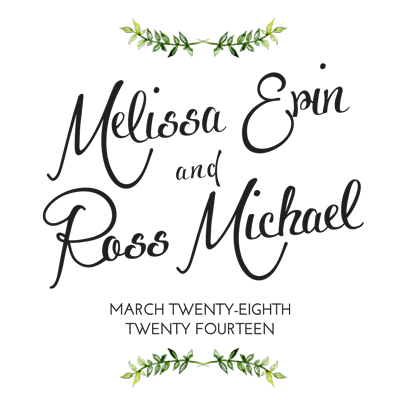
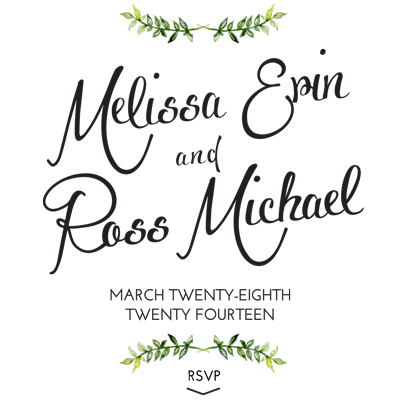
remove text 'RSVP & arrow"

Changed region(s): [[0.09, 0.0, 0.9, 0.99]]

diff --git a/site/css/styles2.css b/site/css/styles2.css
@@ -53,7 +53,7 @@ a.google_play_button{background-image:url(../images/store_buttons.png);backgroun
 
 
 /* Header iPhones */
-.header_right .iphone_one{background-image:url(../images/ross-and-melissa.png);background-repeat:no-repeat;height:600px;width:600px;margin-left: auto;margin-right: auto;z-index:0;display:none}
+.header_right .iphone_one{background-image:url(../images/ross-and-melissa.png);background-repeat:no-repeat;height:600px;width:600px;margin-left: auto;margin-right: auto;z-index:0;display:none;margin-bottom: 20px;}
 
 /* RSVP */
 .rsvp{background-color:#b7cad1;background-repeat:repeat;float:left;height:1000px;width:100%;display:none;margin-top:-20px;}

diff --git a/rsvp.html b/rsvp.html
@@ -36,15 +36,17 @@
 
 			<div class="header_right">
 
-				<div class="iphone_one"></div>
-
-	</div>
+				<div class="iphone_one">
+					
+				</div>
 
 			</div>
+
+		</div>
 				
-		<p class="iphone_two"><br/ ><br/ ><br/ ><br/ ><a class="scrollTo" href="#rsvp">RSVP &#x25BC;</a></p>
+		
 			
-				</div>
+	</div>
 	
 
 </div>
